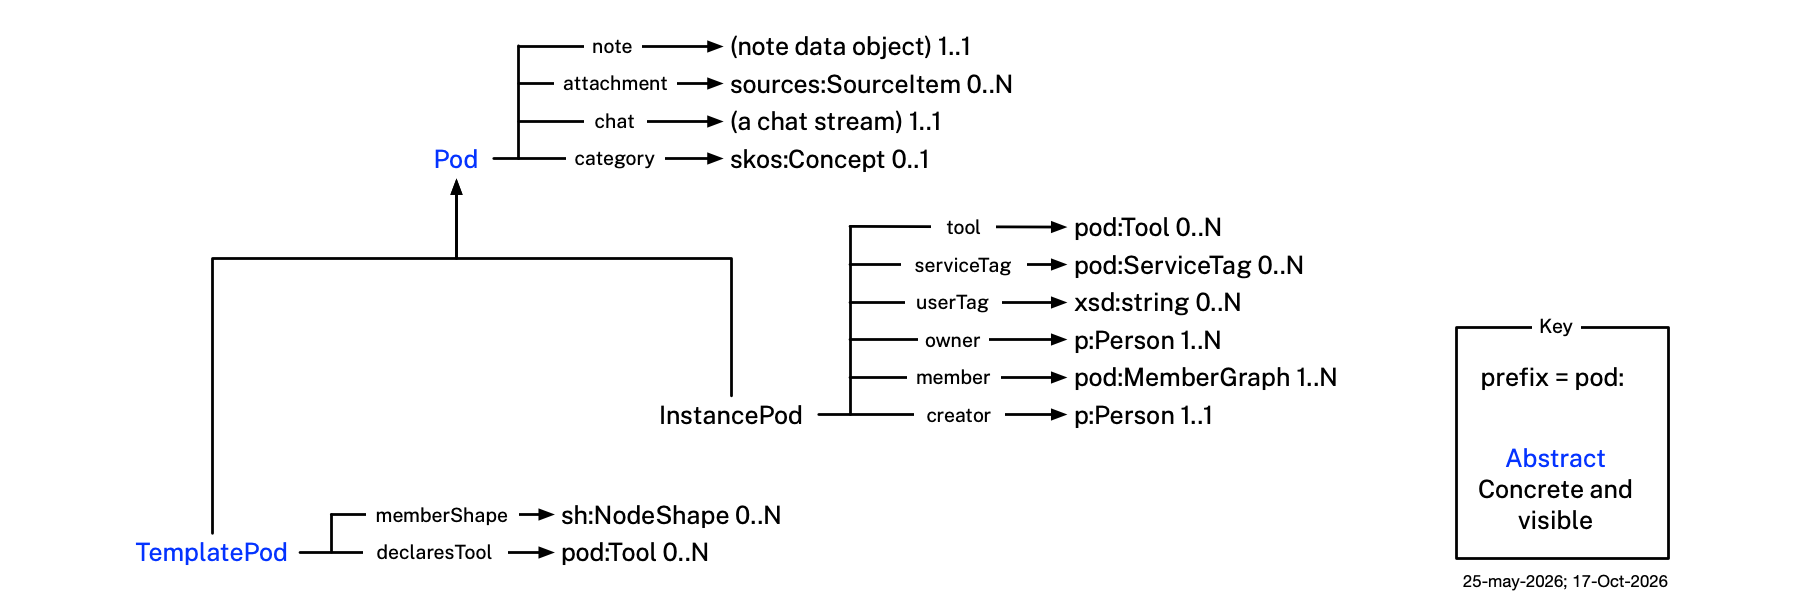
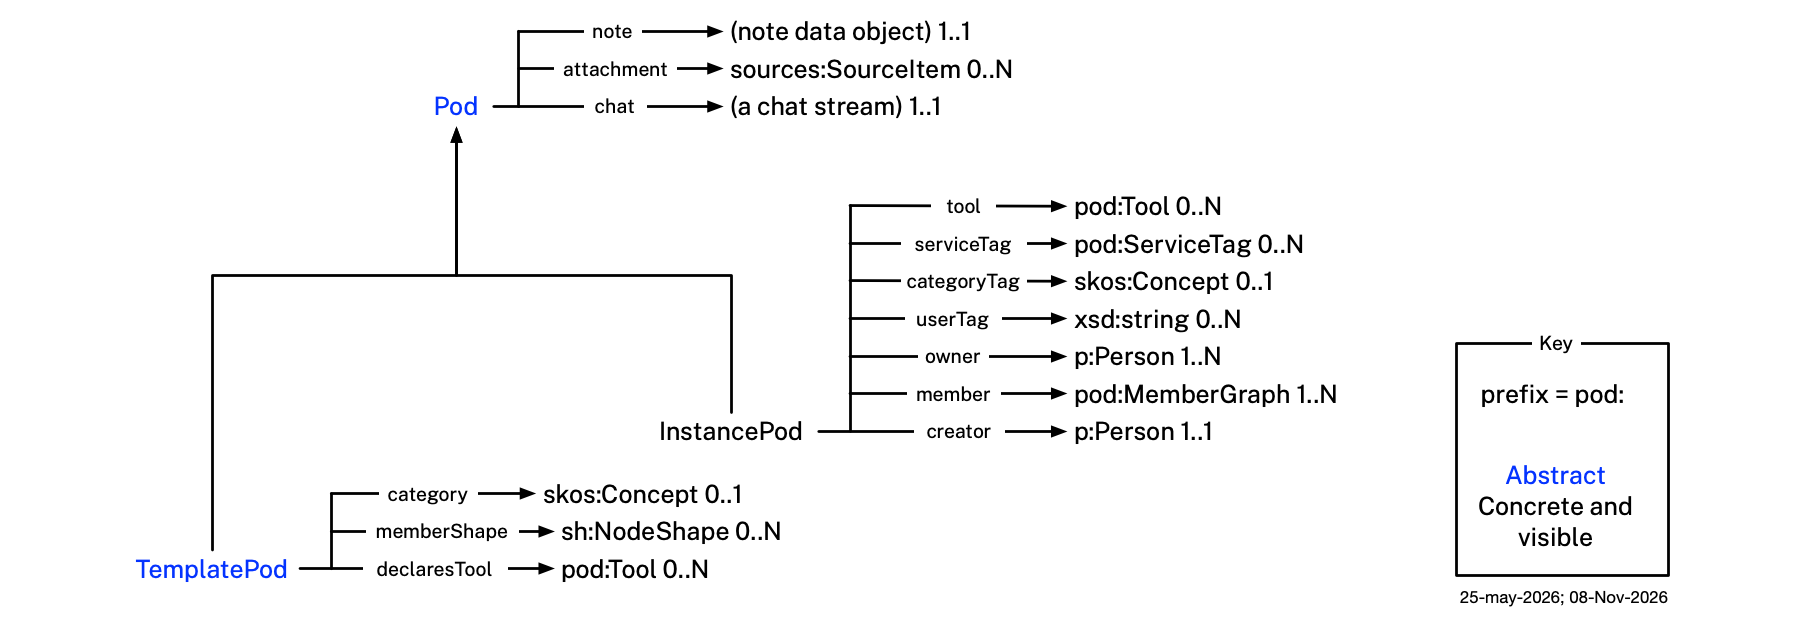
Redraw pod.png with category on TemplatePod and categoryTag on InstancePod
pod:category now hangs off TemplatePod, InstancePod gains its 0..1
categoryTag arrow beside userTag and serviceTag, and Pod keeps only note,
attachment and chat. integrity.md's PNG-3 drops its pending-redraw note
and gives categoryTag its 0..1 cardinality.

diff --git a/integrity.md b/integrity.md
@@ -194,7 +194,7 @@ The 12 diagrams are: `example/images/people.png`, `example/images/people2.png`, 
 
 **PNG-2 — Diagram ↔ files ↔ example.md coverage**: Every numbered graph circle in any of the 12 pod diagrams (`example/images/`) must have (a) a corresponding embedded graph section — a `tpod.member` or `tpod.tool[].graph` entry plus its `### Graph NN` body section — inside a pod-databook file under `example/Pods/`, and (b) a row in one of the tables in the **Graphs** section of `example.md`. Conversely, every row in those tables must correspond to an embedded graph that actually exists — and to that alone: a row does **not** need a numbered circle in any diagram. The 12 diagrams are not required to draw every graph; every graph is documented — a row in `example.md`'s **Graphs** section and a PNG in `example/graphs/images/` (FS-2 and FS-3) — whether or not any diagram draws it. If a circle exists in a diagram but has no embedded graph or `example.md` row, report it rather than creating a graph to match: the DataBooks are authoritative (PNG-1).
 
-**PNG-3 — `pod.ttl` matches `images/pod-ontology/pod.png`**: **`pod.png` is pending redraw**: it draws `category` off `Pod` and carries no `categoryTag` arrow, so 12a and 12b below fail against it until it is redrawn. The description here is of `pod.ttl` as the redrawn diagram must show it. `Pod` shows `attachment` (to a `sources:SourceItem` box, drawn **0..N**, matching `pod:attachment`'s range — `other/sources.ttl`, referenced by name with no `owl:imports` — and its unbounded cardinality: the files every member of the pod receives, never a member's own private ones). The two classification properties, `pod:category` and `pod:categoryTag`, both range over the classificatory `skos:Concept` (a concept in `podcat:PodCategoryScheme`, pod-categories.ttl, or in a category extension's own scheme); pods do not nest, so there is no tree-position class for either to be confused with. Both record what kind of thing a pod is, and neither needs `owl:imports pod-categories.ttl` (referenced by name only, mirroring `pod:creator`'s identical pattern). The diagram shows two arrows off `Pod` with no counterpart in `pod.ttl` — `note` (to a placeholder box, `(note data object) 1..1` — the note is held in the app's own internal format, not as a Markdown file) and `chat` (to a placeholder box, `(a chat stream) 1..1` — every pod always has a chat stream, possibly empty, held inside the app rather than in the pod's folder) — this is a deliberate, accepted exception to 12a/12b below: README.md already describes both properties' intended semantics (see the Documentation-only Properties section) as planned, but `pod.ttl` itself has no `pod:note`/`pod:chat` declaration yet — neither is ever reified as a triple in any real graph. `Pod` (abstract, blue) carries `attachment` (plus the still-open `note`/`chat` arrows above). `Pod` splits into two disjoint kinds (`owl:disjointWith` — a pod is always exactly one, never both): `TemplatePod` (abstract, blue, a reusable class-level template) carries `category` (to a `skos:Concept` box, **0..1** — the one concept the template is for, carried by every template except `ctpl:UserDefinedTemplatePod`, which carries none), `memberShape` (to a `sh:NodeShape` box, 0..N) and `declaresTool` (to a `pod:Tool` box, 0..N); `InstancePod` (concrete, black, a pod a user actually has) carries `member` (to a `pod:MemberGraph` box, 1..N, no fixed upper bound), `tool` (to a `pod:Tool` box, 0..N), `creator` (to a `p:Person` box, 1..1), `owner` (to its own `p:Person` box, 1..N, no fixed upper bound — every arrow in this diagram carries its own target label, so `creator` and `owner` are drawn as two separate `p:Person` boxes rather than sharing one), and the three tag properties `categoryTag` (to a `skos:Concept` box), `userTag` (to an `xsd:string` box) and `serviceTag` (to a `pod:ServiceTag` box), each 0..N, no fixed upper bound — `pod.ttl`'s Pod Tags section. The three tag arrows hang off `InstancePod`, never off `Pod`: their domain is `pod:InstancePod` deliberately, since a `TemplatePod` seeds no tags. `category` and `categoryTag` hang off different boxes for the same reason: `category` names the one concept a template is for and never appears on an instance pod, while `categoryTag` is a member's own classification of a pod, at most one concept. The three tags point at different kinds of target because they are different shapes: a category tag is a concept, a user tag is a bare literal, and a service tag is a value node. `ServiceTag` and the `Tool` hierarchy are **not** drawn in this diagram: each has its own, `images/pod-ontology/tag.png` (PNG-6) and `images/pod-ontology/tool.png` (PNG-7). Here they appear only as arrow targets — a `pod:ServiceTag` box off `serviceTag`, and a `pod:Tool` box off both `tool` and `declaresTool` — never as members of the `Pod` hierarchy, which neither has an `rdfs:subClassOf` relation to. There is no `shape` arrow off `InstancePod` at all — a pod stores no shape of its own; the `shape` property that does exist has domain `pod:Graph` and is drawn in `graph.png` (PNG-4) (each graph's own `pod:shape`, set from the template that supplied the graph, is the validation authority for that graph; there is no single template of a pod to derive a pod-level shape from) — and no pod-level `subject` arrow off `InstancePod` either — there is no such property (a pod's own subject is derived from its tools' own `pod:formTopic` values, or failing those from `member`'s own `pod:subject` values, rather than stored on the pod itself; those two are real, surviving properties, scoped to `pod:Tool` and `pod:MemberGraph` rather than to `InstancePod` — see PNG-4). `TemplatePod` has no subclasses of its own, and no individual is ever typed both `TemplatePod` and `InstancePod` — every template individual in `pod-category-templates.ttl` is typed solely `TemplatePod`. No arrow points from `Pod`, `TemplatePod`, or `InstancePod` to any tree-position box at all — pods do not nest, and both classification arrows point to `skos:Concept`. This diagram is the ontology-level (not example-data) picture of `pod:Pod`'s structure — the member-composition hierarchy and its content-linking properties. A single "Key" box in the lower right carries three swatches, in this order — blue "Abstract", black "Concrete and visible", green "Concrete but hidden" — and the class-box colors track them exactly: blue is `pod:abstract true` in `pod.ttl` (`Pod` and `TemplatePod`, and nothing else here) and black is every remaining concrete class. The Key lists exactly the swatches this diagram actually uses — two here, since the one green ("concrete but hidden") class, `ServiceTag`, is drawn in `tag.png` instead. A concrete class may only be green where `pod.ttl` or `README.md` actually says the user never sees it; absent that, it is black. Unlike PNG-1 (example diagrams, where the diagram always wins), this check does not presume which side is authoritative when the two disagree — surface the discrepancy and ask:
+**PNG-3 — `pod.ttl` matches `images/pod-ontology/pod.png`**: `Pod` shows `attachment` (to a `sources:SourceItem` box, drawn **0..N**, matching `pod:attachment`'s range — `other/sources.ttl`, referenced by name with no `owl:imports` — and its unbounded cardinality: the files every member of the pod receives, never a member's own private ones). The two classification properties, `pod:category` and `pod:categoryTag`, both range over the classificatory `skos:Concept` (a concept in `podcat:PodCategoryScheme`, pod-categories.ttl, or in a category extension's own scheme); pods do not nest, so there is no tree-position class for either to be confused with. Both record what kind of thing a pod is, and neither needs `owl:imports pod-categories.ttl` (referenced by name only, mirroring `pod:creator`'s identical pattern). The diagram shows two arrows off `Pod` with no counterpart in `pod.ttl` — `note` (to a placeholder box, `(note data object) 1..1` — the note is held in the app's own internal format, not as a Markdown file) and `chat` (to a placeholder box, `(a chat stream) 1..1` — every pod always has a chat stream, possibly empty, held inside the app rather than in the pod's folder) — this is a deliberate, accepted exception to 12a/12b below: README.md already describes both properties' intended semantics (see the Documentation-only Properties section) as planned, but `pod.ttl` itself has no `pod:note`/`pod:chat` declaration yet — neither is ever reified as a triple in any real graph. `Pod` (abstract, blue) carries `attachment` (plus the still-open `note`/`chat` arrows above). `Pod` splits into two disjoint kinds (`owl:disjointWith` — a pod is always exactly one, never both): `TemplatePod` (abstract, blue, a reusable class-level template) carries `category` (to a `skos:Concept` box, **0..1** — the one concept the template is for, carried by every template except `ctpl:UserDefinedTemplatePod`, which carries none), `memberShape` (to a `sh:NodeShape` box, 0..N) and `declaresTool` (to a `pod:Tool` box, 0..N); `InstancePod` (concrete, black, a pod a user actually has) carries `member` (to a `pod:MemberGraph` box, 1..N, no fixed upper bound), `tool` (to a `pod:Tool` box, 0..N), `creator` (to a `p:Person` box, 1..1), `owner` (to its own `p:Person` box, 1..N, no fixed upper bound — every arrow in this diagram carries its own target label, so `creator` and `owner` are drawn as two separate `p:Person` boxes rather than sharing one), and the three tag properties `categoryTag` (to a `skos:Concept` box, **0..1**), `userTag` (to an `xsd:string` box, 0..N) and `serviceTag` (to a `pod:ServiceTag` box, 0..N) — `pod.ttl`'s Pod Tags section. The three tag arrows hang off `InstancePod`, never off `Pod`: their domain is `pod:InstancePod` deliberately, since a `TemplatePod` seeds no tags. `category` and `categoryTag` hang off different boxes for the same reason: `category` names the one concept a template is for and never appears on an instance pod, while `categoryTag` is a member's own classification of a pod, at most one concept. The three tags point at different kinds of target because they are different shapes: a category tag is a concept, a user tag is a bare literal, and a service tag is a value node. `ServiceTag` and the `Tool` hierarchy are **not** drawn in this diagram: each has its own, `images/pod-ontology/tag.png` (PNG-6) and `images/pod-ontology/tool.png` (PNG-7). Here they appear only as arrow targets — a `pod:ServiceTag` box off `serviceTag`, and a `pod:Tool` box off both `tool` and `declaresTool` — never as members of the `Pod` hierarchy, which neither has an `rdfs:subClassOf` relation to. There is no `shape` arrow off `InstancePod` at all — a pod stores no shape of its own; the `shape` property that does exist has domain `pod:Graph` and is drawn in `graph.png` (PNG-4) (each graph's own `pod:shape`, set from the template that supplied the graph, is the validation authority for that graph; there is no single template of a pod to derive a pod-level shape from) — and no pod-level `subject` arrow off `InstancePod` either — there is no such property (a pod's own subject is derived from its tools' own `pod:formTopic` values, or failing those from `member`'s own `pod:subject` values, rather than stored on the pod itself; those two are real, surviving properties, scoped to `pod:Tool` and `pod:MemberGraph` rather than to `InstancePod` — see PNG-4). `TemplatePod` has no subclasses of its own, and no individual is ever typed both `TemplatePod` and `InstancePod` — every template individual in `pod-category-templates.ttl` is typed solely `TemplatePod`. No arrow points from `Pod`, `TemplatePod`, or `InstancePod` to any tree-position box at all — pods do not nest, and both classification arrows point to `skos:Concept`. This diagram is the ontology-level (not example-data) picture of `pod:Pod`'s structure — the member-composition hierarchy and its content-linking properties. A single "Key" box in the lower right carries three swatches, in this order — blue "Abstract", black "Concrete and visible", green "Concrete but hidden" — and the class-box colors track them exactly: blue is `pod:abstract true` in `pod.ttl` (`Pod` and `TemplatePod`, and nothing else here) and black is every remaining concrete class. The Key lists exactly the swatches this diagram actually uses — two here, since the one green ("concrete but hidden") class, `ServiceTag`, is drawn in `tag.png` instead. A concrete class may only be green where `pod.ttl` or `README.md` actually says the user never sees it; absent that, it is black. Unlike PNG-1 (example diagrams, where the diagram always wins), this check does not presume which side is authoritative when the two disagree — surface the discrepancy and ask:
 
 - **12a** — every property arrow shown off `Pod` (`attachment`) has a corresponding `pod:` property in `pod.ttl` with `rdfs:domain pod:Pod` (the diagram's `note` and `chat` arrows are the two accepted exceptions — see above: both are planned properties, not yet added to `pod.ttl`). Every arrow off `TemplatePod` (`category`, `memberShape`, `declaresTool`) has `rdfs:domain pod:TemplatePod`, and every arrow off `InstancePod` (`creator`, `owner`, `member`, `tool`, `categoryTag`, `userTag`, `serviceTag`) has `rdfs:domain pod:InstancePod`. No arrow may appear off the `pod:Tool` or `pod:ServiceTag` target boxes here — those belong to PNG-7 and PNG-6. No `shape` arrow should appear off `InstancePod` at all — a pod stores no shape of its own, and `pod:shape`'s domain is `pod:Graph`, so it belongs in `graph.png` (PNG-4) (each graph carries its own; a pod stores none). No pod-level `subject` arrow should appear off `InstancePod` either — that property doesn't exist (see PNG-3's own note above); `pod:subject` is real, but scoped to `pod:MemberGraph`, not to `InstancePod` (see PNG-4). Each arrow's target type in the diagram must match the property's `rdfs:range` — `member`'s is `pod:MemberGraph` and `formGraph`'s is `pod:FormGraph` — deliberately *different* classes, one per list, `tool`'s and `declaresTool`'s are both `pod:Tool`, `creator`'s and `owner`'s are both `p:Person` (two separate arrows, each with its own target box — what must match is the range, not the box count), `categoryTag`'s is `skos:Concept`, `userTag`'s is `xsd:string` and `serviceTag`'s is `pod:ServiceTag` (three separate arrows, each 0..N — not one shared arrow, since a tag's kind is carried entirely by which property holds it, and no two share a target), `tagNamespace`'s, `tagKey`'s and `tagValue`'s are all `xsd:string` (three separate arrows, each 1..1), `attachment`'s is `sources:SourceItem` (0..N — a stale `(file)` placeholder target is a discrepancy), `category`'s is `skos:Concept` itself (value is a named category-concept individual, scoped via `skos:inScheme` to `podcat:PodCategoryScheme` or a category extension's own scheme — no class-value punning, since pod-categories.ttl's hierarchy is SKOS, not OWL classes), `memberShape`'s is `sh:NodeShape` (0..N, not 0..1). `formShape` does **not** appear in this diagram at all — its domain is `pod:Tool`, so it is drawn in `tool.png` (PNG-7).
 - **12b** — every `pod:` property defined in `pod.ttl` appears as an arrow in the diagram, under the box matching its domain — `Pod`, `TemplatePod`, `InstancePod`, `Tool` (or one of its `Form`/`Calendar`/`Canvas`/`Contacts`/`Map`/`Browser` subclasses), or `ServiceTag` (catches new properties added to the ttl but never drawn, or drawn under the wrong box).
